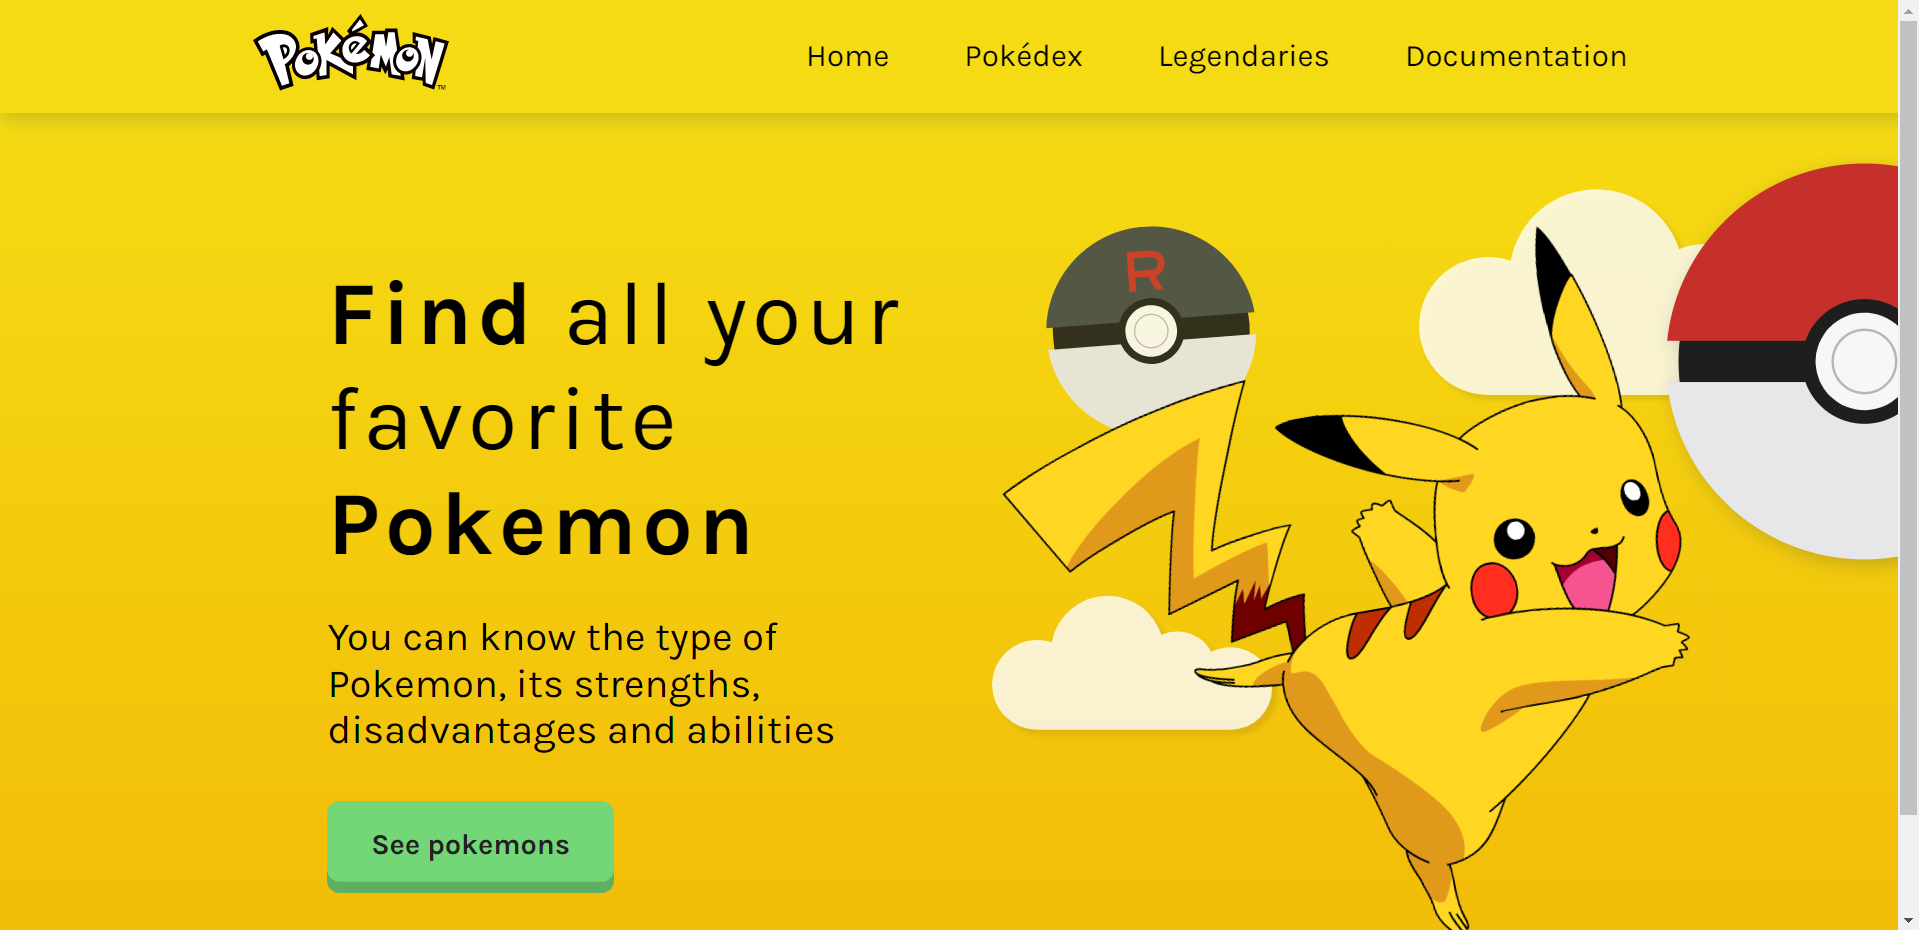
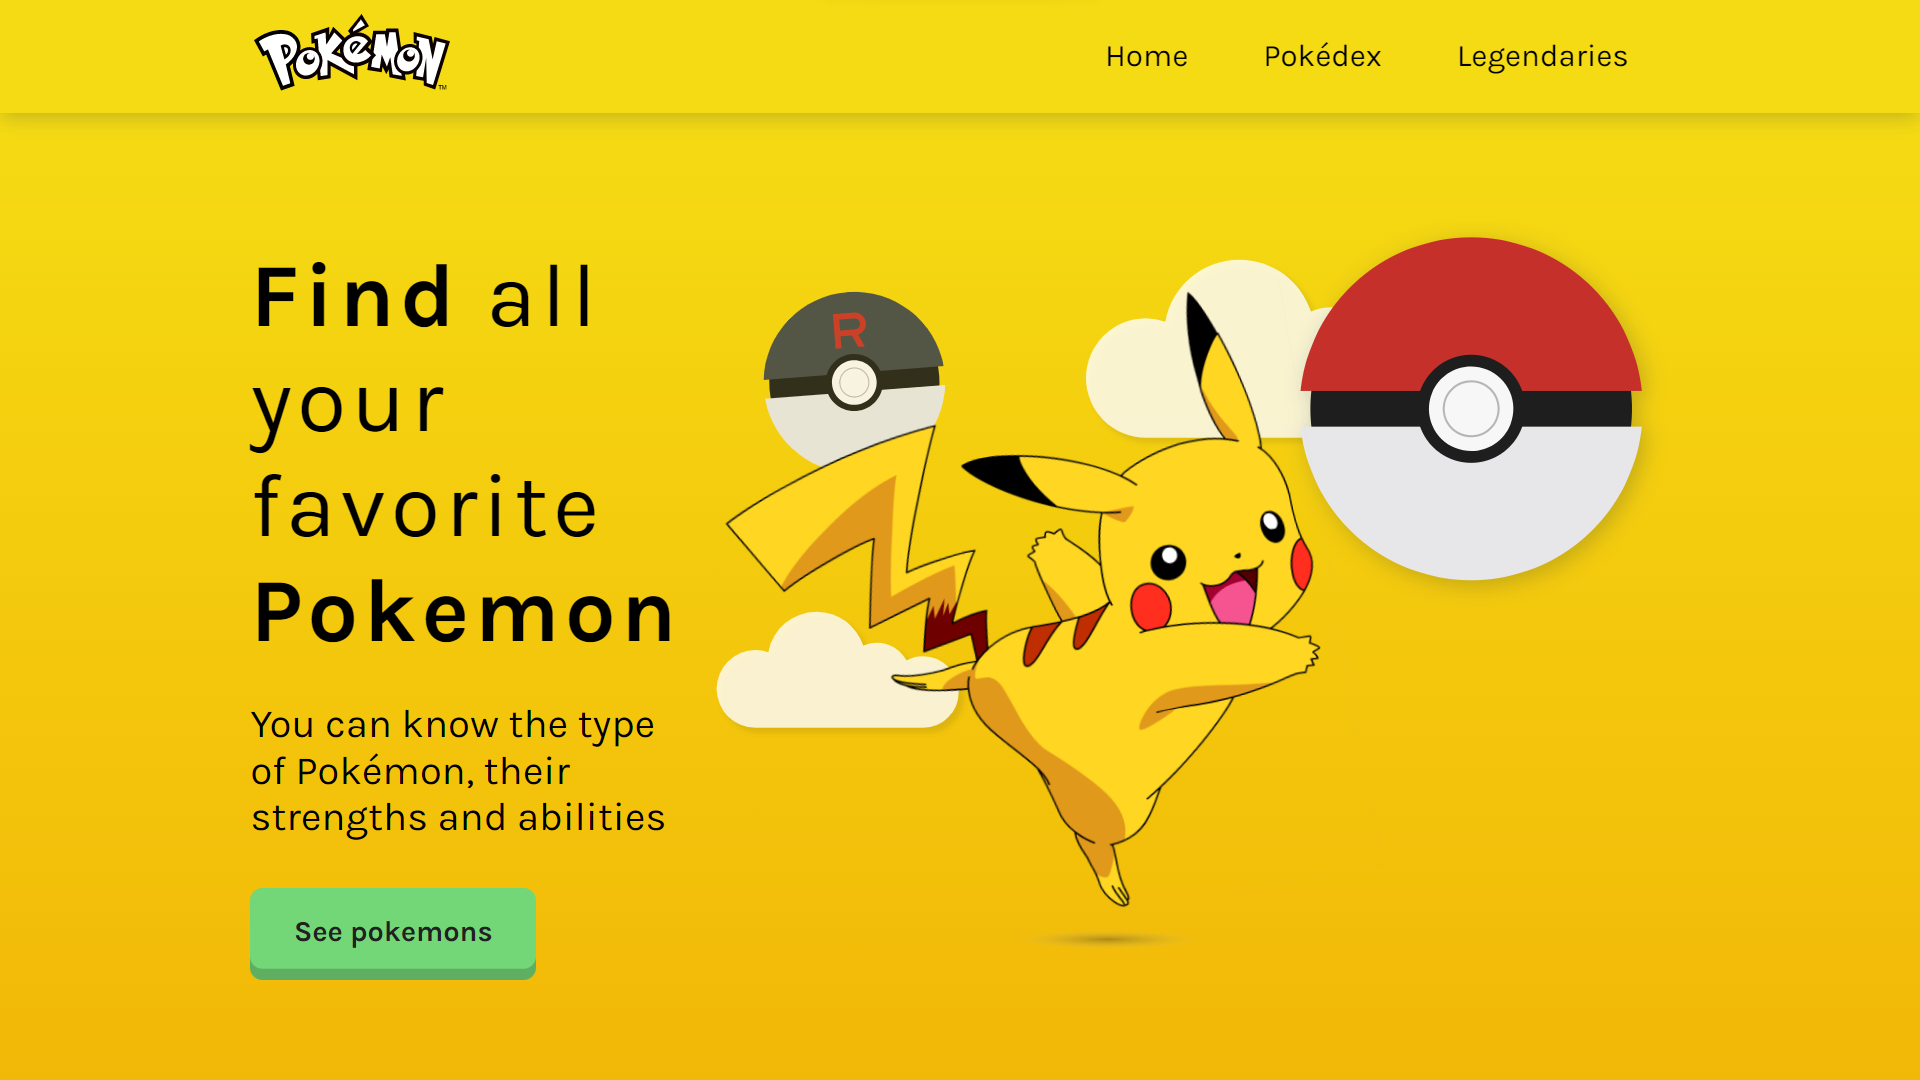
Finalização do projeto

Changed region(s): [[0.0, 0.0, 1.0, 1.0], [0.8609, 0.686, 0.8916, 0.7172]]

diff --git a/src/styles/components/CardPokeModal.ts b/src/styles/components/CardPokeModal.ts
@@ -1,6 +1,6 @@
 import styled from "styled-components";
 import { CardPokeModalTypesCss } from "../../types/CardPokeModalTypes";
-import { colors, fonts } from "../themes";
+import { colors, fonts, sizes } from "../themes";
 
 export const Container = styled.div<CardPokeModalTypesCss>`
     overflow: hidden;
@@ -15,8 +15,22 @@ export const Container = styled.div<CardPokeModalTypesCss>`
     background: ${props => props.bg_color};
 
     @media(max-width: 950px){
-        max-width: 760px;
+        max-width: ${sizes.tablet};
         height: 450px;
+    }
+
+    @media(max-width: 768px){
+        max-width: ${sizes.tabletEnd};
+        flex-direction: column;
+        height: auto;
+    }
+
+    @media(max-width: 620px) {
+        max-width: ${sizes.mobile};
+    }
+
+    @media(max-width: 440px) {
+        max-width: ${sizes.mobileEnd};
     }
 
     .leftArea {
@@ -29,6 +43,13 @@ export const Container = styled.div<CardPokeModalTypesCss>`
         height: 100%;
         box-shadow: 4px 4px 8px rgba(1, 28, 64, 0.2);
 
+        @media(max-width: 768px) {
+            width: 100%;
+            height: auto;
+            background: linear-gradient(180deg, ${props=>props.bg_color_shadow}, 42.19%, transparent 100%);
+            box-shadow: 4px 4px 8px transparent;
+        }
+
         .areaImgs {
             display: flex;
             align-items: center;
@@ -39,6 +60,10 @@ export const Container = styled.div<CardPokeModalTypesCss>`
             img {
                 width: 100%;
                 height: auto;
+
+                @media(max-width: 768px) {
+                    width: 50%;
+                }
             }
         }
 
@@ -79,6 +104,16 @@ export const Container = styled.div<CardPokeModalTypesCss>`
         padding: 30px 20px;
         background: linear-gradient(180deg, ${props=>props.bg_color_shadow}, 42.19%, transparent 100%);
 
+        @media(max-width: 768px) {
+            width: 100%;
+            background: transparent;
+            padding: 20px;
+        }
+
+        @media(max-width: 440px) {
+            padding: 10px;
+        }
+
         .topCard {
             display: flex;
             align-items: center;
@@ -93,6 +128,10 @@ export const Container = styled.div<CardPokeModalTypesCss>`
                 line-height: 42px;
                 color: ${colors.WhiteThird};
                 text-shadow: 4px 4px 4px rgba(33, 33, 33, 0.1);
+
+                @media(max-width: 620px) {
+                    font-size: 28px;
+                }
             }
 
             span {
@@ -103,6 +142,10 @@ export const Container = styled.div<CardPokeModalTypesCss>`
                 line-height: 30px;
                 text-align: center;
                 color: ${colors.WhiteThird};
+
+                @media(max-width: 620px) {
+                    font-size: 20px;
+                }
             }
 
             .circleCode {
@@ -122,6 +165,18 @@ export const Container = styled.div<CardPokeModalTypesCss>`
 
                 text-align: center;
                 color: ${colors.BlackColors};
+
+                @media(max-width: 620px) {
+                    width: 36px;
+                    height: 36px;
+                    font-size: 14px;
+                }
+
+                @media(max-width: 440px) {
+                    width: 26px;
+                    height: 26px;
+                    font-size: 12px;
+                }
             }
         }
 
@@ -163,6 +218,14 @@ export const Container = styled.div<CardPokeModalTypesCss>`
                     flex-direction: column;
                 }
 
+                @media(max-width: 768px) {
+                    flex-direction: row;
+                }
+
+                @media(max-width: 620px) {
+                    flex-direction: column;
+                }
+
                 .containerLine {
                     display: flex;
                     flex-direction: column;
@@ -198,6 +261,21 @@ export const Container = styled.div<CardPokeModalTypesCss>`
 
             .modif {
                 padding: 10px;
+
+                @media(max-width: 440px){
+                    .circle {
+                        width: 35px;
+                        height: 35px;
+                    }
+
+                    span {
+                        font-size: 9px;
+                    }
+                }
+            }
+
+            @media(max-width: 768px) {
+                margin-top: 10px;
             }
         }
     }

diff --git a/src/pages/Search.tsx b/src/pages/Search.tsx
@@ -81,10 +81,18 @@ const Search = () => {
     }
 
     const handleClearFilter = () => {
+        const allInputsFilter = document.querySelectorAll(".containerInputs .unity input") as NodeListOf<HTMLInputElement>;
+
         setOpenFilter(false);
         setFiltedPokemon([]);
         setArrTypePoke([]);
         setArrRegionPoke([]);
+
+        allInputsFilter.forEach((checkbox) => {
+            if (checkbox.checked) {
+                checkbox.checked = false;
+            }
+        });
     }
 
     const handlePokeFilter = () => {
@@ -130,11 +138,38 @@ const Search = () => {
                     let temp = filterType(e, allPokemon);
                     
                     temp.forEach((Etemp, Ktemp)=>{
-                        arrType.push(Etemp)
+                        arrType.push(Etemp);
                     });
                 });
                 
                 setFiltedPokemon(arrType);
+            } else if(arrRegionPoke.length > 0 && arrTypePoke.length === 0){
+                let arrRegion:pokemonAllSearch[] = [];
+
+                arrRegionPoke.forEach((e,k)=>{
+                    let temp = filterRegion(e, allPokemon);
+
+                    temp.forEach((Etemp, Ktemp)=>{
+                        arrRegion.push(Etemp);
+                    });
+                });
+
+                setFiltedPokemon(arrRegion);
+            } else {
+                let arrRT:pokemonAllSearch[] = [];
+                var temp;
+                
+                for(let i = 0; i < arrTypePoke.length; i++){
+                    for(let j = 0; j < arrRegionPoke.length; j++){
+                        temp = filterRT(arrTypePoke[i], arrRegionPoke[j], allPokemon);
+
+                        temp.forEach((Etemp, Ktemp)=>{
+                            arrRT.push(Etemp);
+                        });
+                    }
+                }
+
+                setFiltedPokemon(arrRT);
             }
         }
 
@@ -227,8 +262,6 @@ const Search = () => {
         }
         handleTempAllPokemon();
     }, [arrDataAllPokemons]);
-
-    useEffect(()=>{console.log(filtedPokemon)},[filtedPokemon]);
 
     return (
         <>

diff --git a/src/styles/components/CardPokeModalError.ts b/src/styles/components/CardPokeModalError.ts
@@ -1,5 +1,5 @@
 import styled from "styled-components";
-import { colors, fonts } from "../themes";
+import { colors, fonts, sizes } from "../themes";
 
 export const Container = styled.div`
     overflow: hidden;
@@ -13,9 +13,29 @@ export const Container = styled.div`
     height: 380px;
     background: linear-gradient(180deg,#732119 42.19%,${colors.Eletric} 100%);
 
+    @media(max-width: 768px){
+        max-width: ${sizes.tabletEnd};
+    }
+
+    @media(max-width: 590px){
+        max-width: ${sizes.mobile};
+    }
+
+    @media(max-width: 430px){
+        max-width: ${sizes.mobileEnd};
+    }
+
     img {
         height: 250px;
         width: auto;
+
+        @media(max-width: 590px){
+            height: 220px;
+        }
+
+        @media(max-width: 430px){
+            height: 170px;
+        }
     }
 
     span {
@@ -23,10 +43,18 @@ export const Container = styled.div`
         font-style: normal;
         font-weight: 600;
         font-size: 22px;
-        line-height: 14px;
+        line-height: 15px;
         text-align: center;
         color: ${colors.FullWhite};
         text-transform: uppercase;
         margin-top: 20px;
+
+        @media(max-width: 590px){
+            line-height: 25px;
+        }
+
+        @media(max-width: 430px){
+            font-size: 18px;
+        }
     }
 `;

diff --git a/src/components/ModalContainerFilter.tsx b/src/components/ModalContainerFilter.tsx
@@ -34,8 +34,7 @@ const ModalContainerFilter = ({ arr, label, arrSelected, elementCheck, setArrSel
                                     onChange={(e)=>{handleChangeInput(e.target.value)}} 
                                     id={`${e.key}-key`} 
                                     value={e.key} 
-                                    type="checkbox" 
-                                    checked={elementCheck}
+                                    type="checkbox"
                                 />
                                 <label htmlFor={`${e.key}-key`}>{e.value}</label>
                             </div>

diff --git a/src/components/LegendaryDescription.tsx b/src/components/LegendaryDescription.tsx
@@ -15,7 +15,6 @@ import { pokemonAllViewTypes } from "../types/pokemonAllViewTypes";
 import pokemonAllView from "../view/pokemonAllView";
 
 const LegendaryDescription = ({ legendaryPokes, defaultPk }:LegendaryDescriptionTypes) => {
-    console.log("Lucas: ", legendaryPokes);
     const undefinedText = "undefined";
     
     const [ pokeView, setPokeView ] = useState<pokemonAllViewTypes>(defaultPk);

diff --git a/src/styles/components/LineStatus.ts b/src/styles/components/LineStatus.ts
@@ -3,11 +3,7 @@ import { ColorType } from "../../types/LineStatusTypes";
 import { colors } from "../themes";
 
 const convertPixes = (value: number)=>{
-    console.log("value: ", value)
-
     let result = value/2;
-
-    console.log("result: ", result)
 
     return `${result}px`;
 }

diff --git a/src/styles/components/ModalOpenCard.ts b/src/styles/components/ModalOpenCard.ts
@@ -22,6 +22,7 @@ export const Container = styled.section<ModalOpenCardCss>`
         position: absolute;
         top: 30px;
         right: 50px;
+        z-index: 1000;
         
         img {
             opacity: 1;
